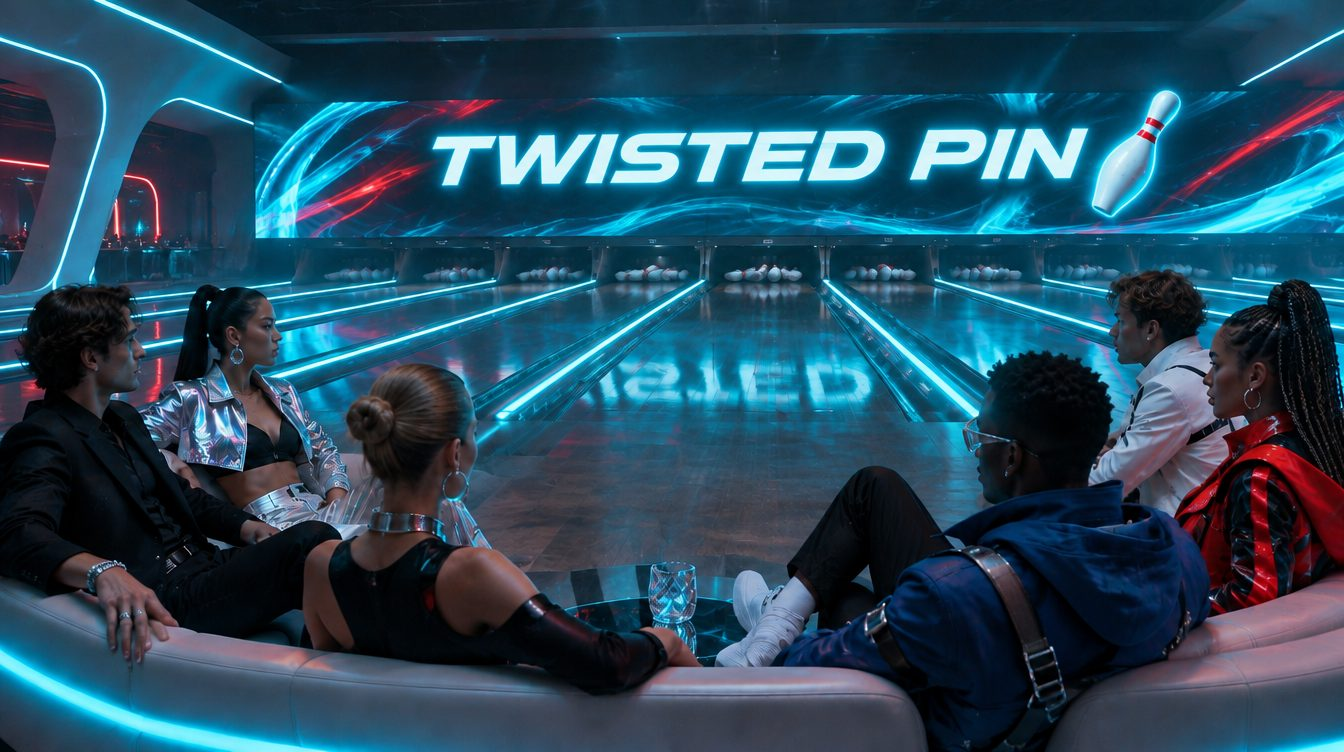
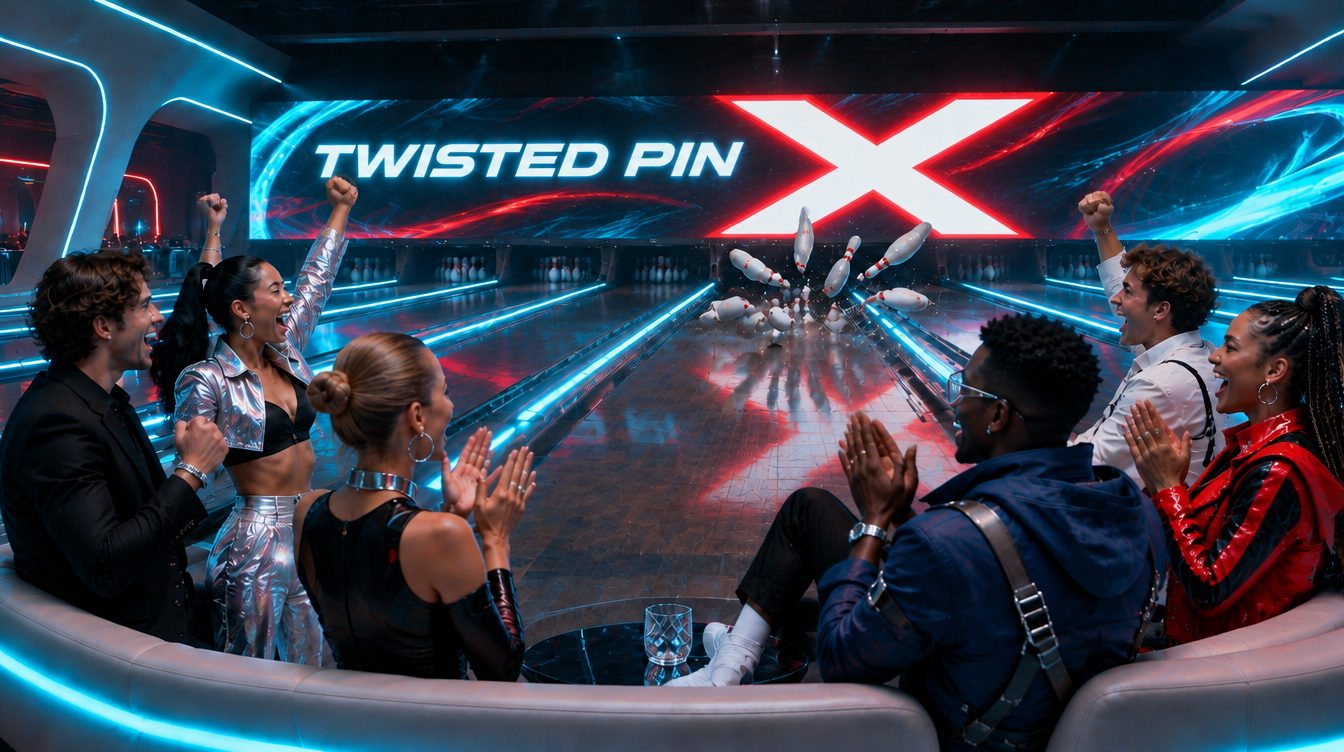
Add files via upload

diff --git a/index.html b/index.html
@@ -3,7 +3,7 @@
 <head>
 <meta charset="UTF-8">
 <meta name="viewport" content="width=device-width, initial-scale=1.0">
-<title>Twisted Pin 2030 | Bowling From The Future</title>
+<title>Twisted Pin 2030 | Futuristic Bowling</title>
 <meta name="description" content="Concept redesign of the Twisted Pin bowling experience in Plainfield, IL.">
 <link rel="preconnect" href="https://fonts.googleapis.com">
 <link href="https://fonts.googleapis.com/css2?family=Orbitron:wght@500;700;900&family=Poppins:wght@300;400;600&display=swap" rel="stylesheet">
@@ -193,7 +193,7 @@
   </nav>
 
   <div class="headline">
-    <h1>BOWLING FROM THE <span class="x">FUTURE</span></h1>
+    <h1>FUTURISTIC <span class="x">BOWLING</span></h1>
     <div class="row"><a class="btn" href="https://www.twistedpin.com/" target="_blank" rel="noopener">BOOK A LANE</a><a class="btn ghost" href="tel:+18157827790">CALL (815) 782-7790</a></div>
   </div>
 
